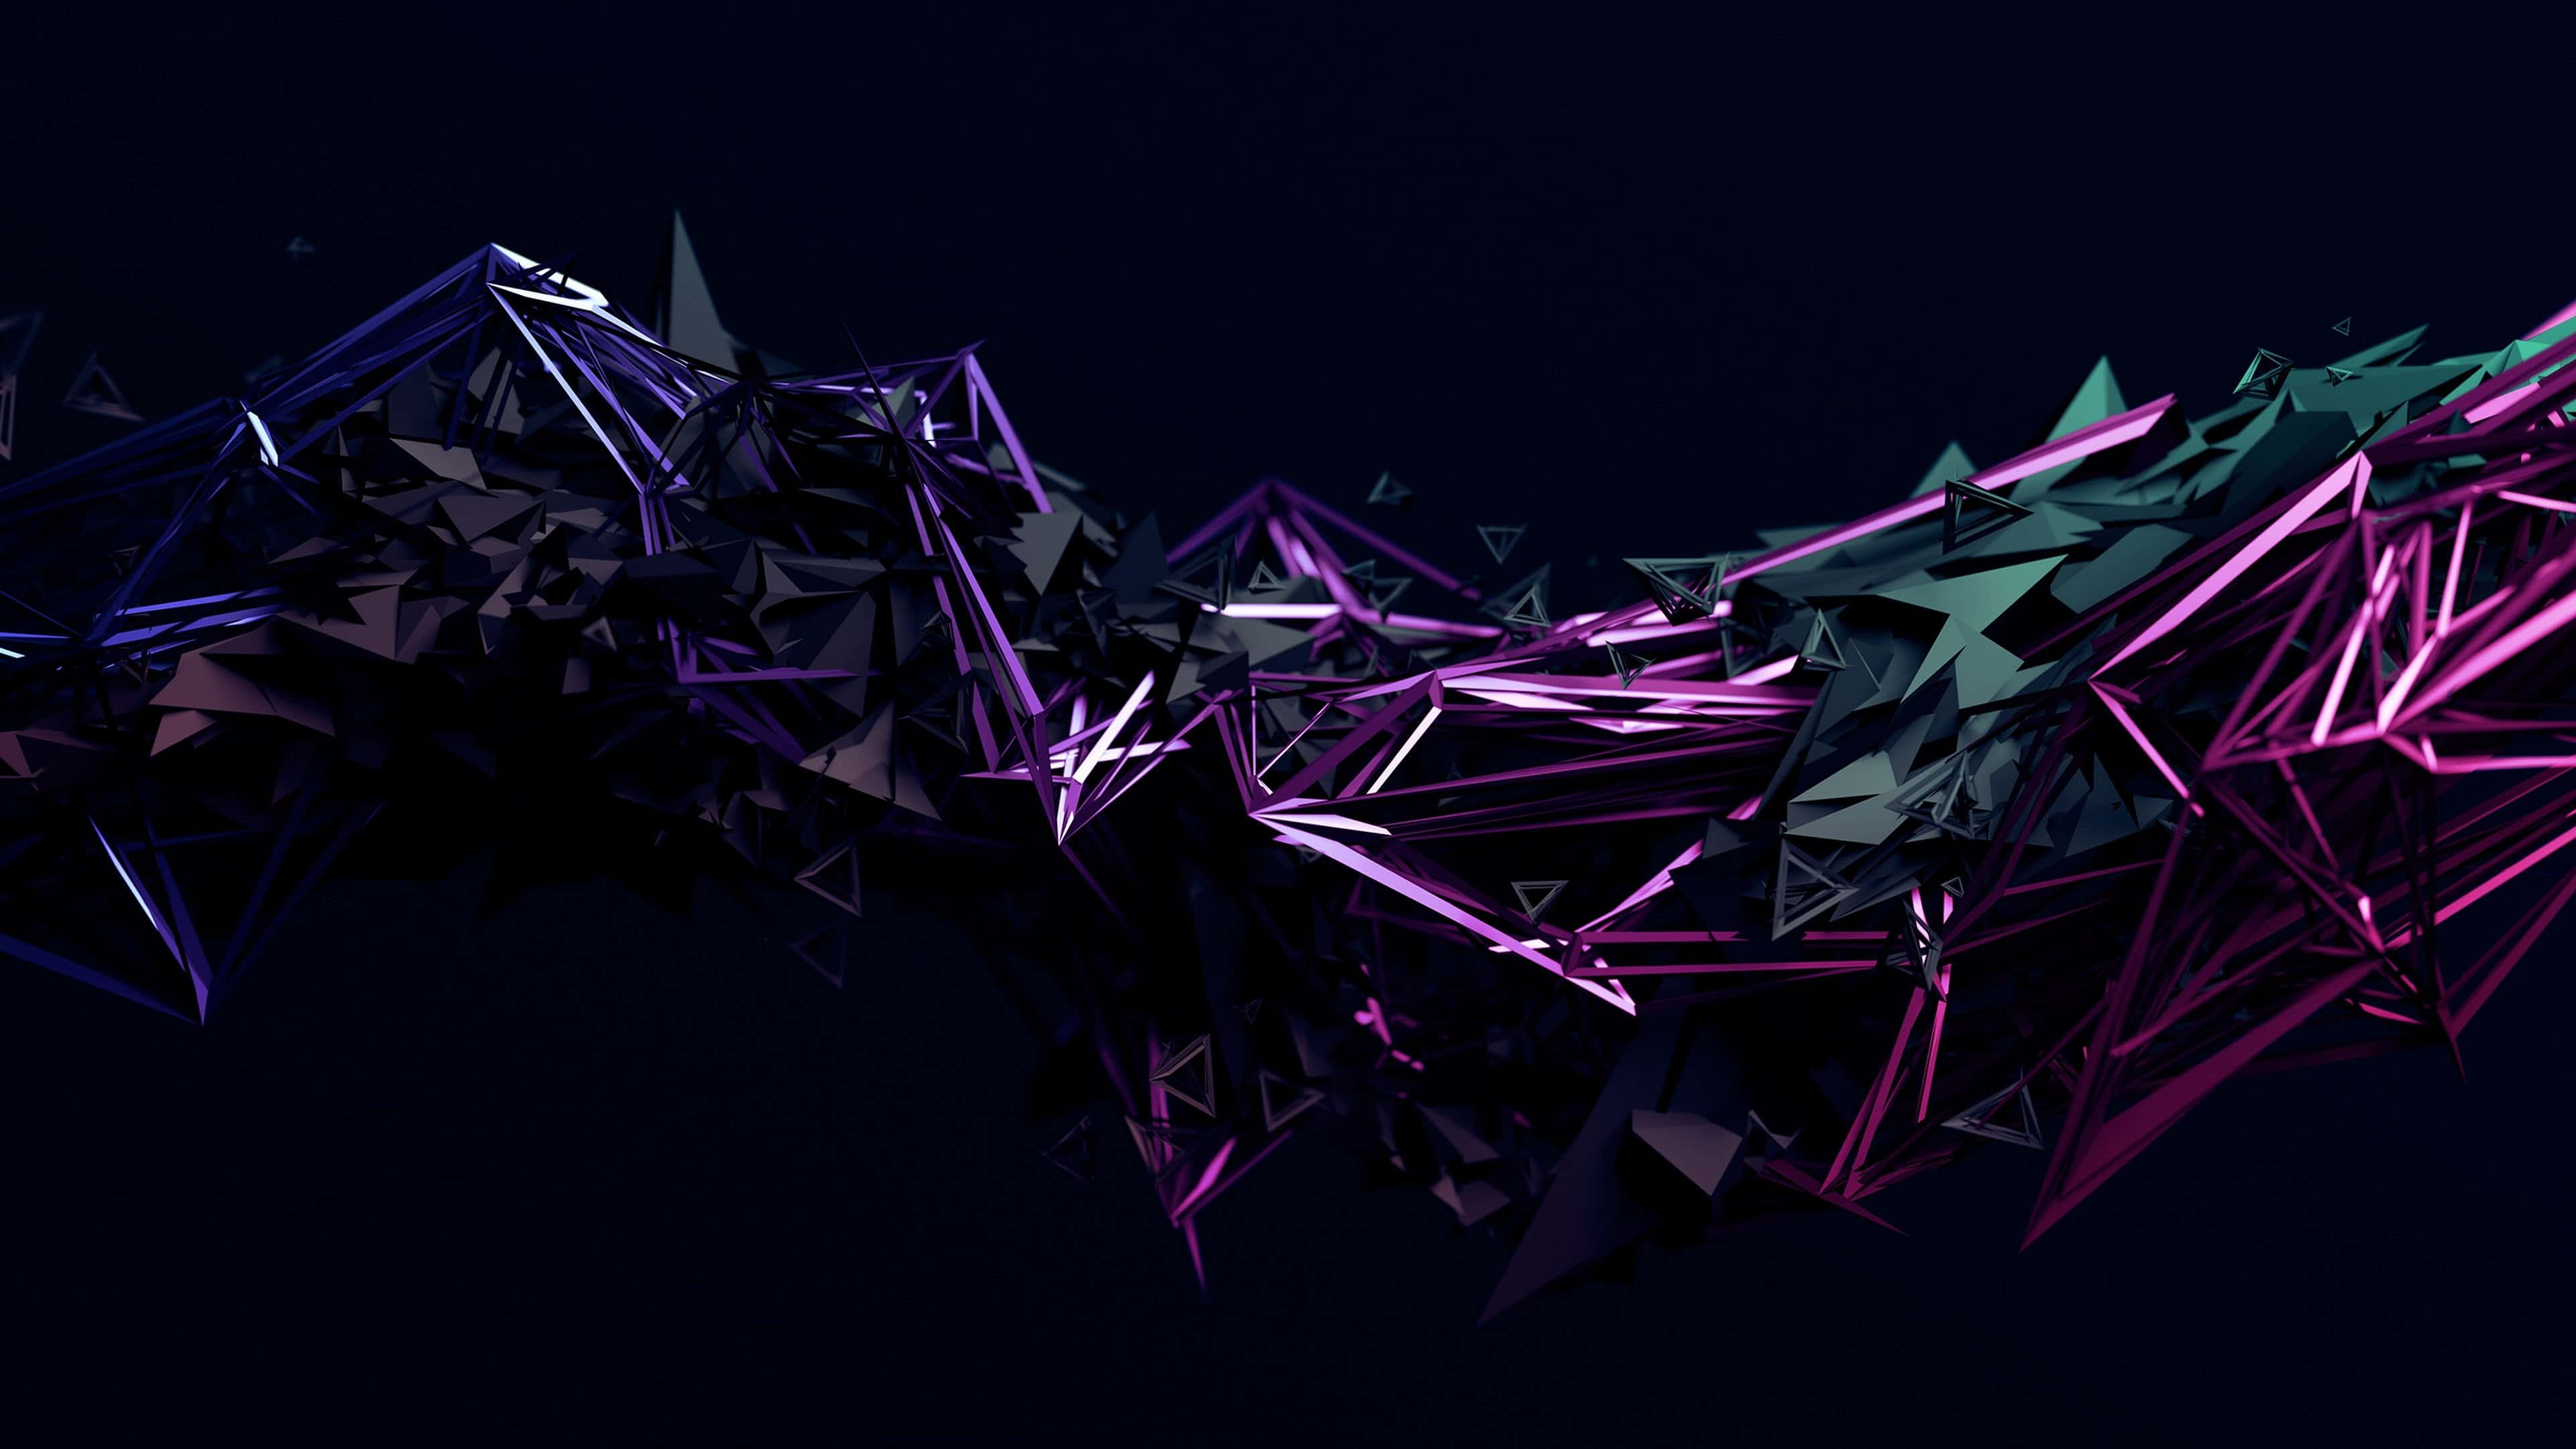
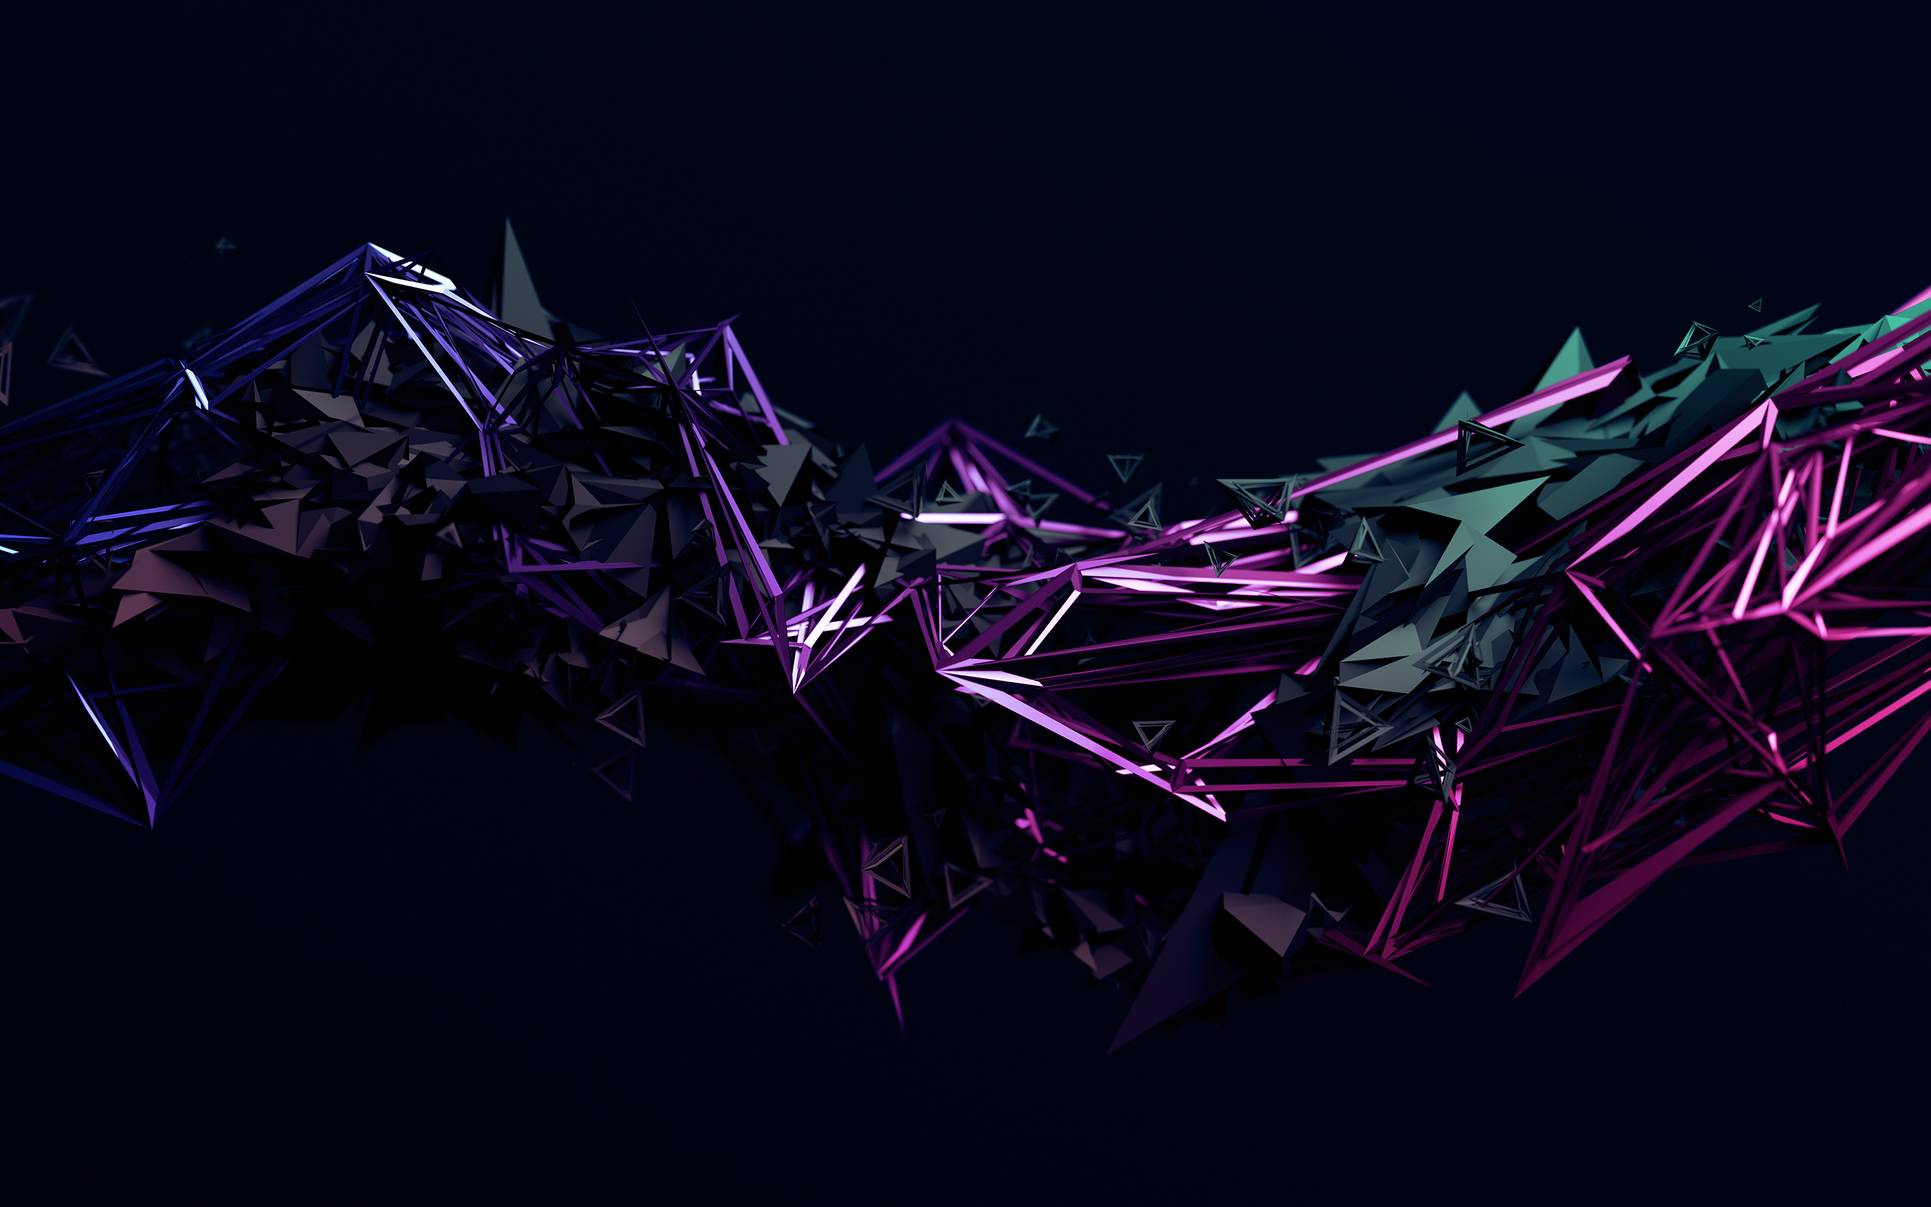
Minor tweaks to footer

Changed region(s): [[0.0, 0.1556, 1.0, 0.8711], [0.0, 0.56, 0.125, 0.7156]]

diff --git a/stylesheet.css b/stylesheet.css
@@ -131,7 +131,7 @@ header + .light-sect {
   text-align: center;
   background-image: url("img/sect-background.jpg");
   background-attachment: fixed;
-  background-position-y: bottom 20%;
+  background-position-y: bottom 24%;
   background-size: cover;
   background-repeat: repeat-x;
   background-blend-mode: darken;
@@ -163,12 +163,12 @@ h3.light-title + div {
 .project-rect img {
   display: inline-block;
   background-color: #c4c4c4;
-  height: 150px;
-  width: 275px;
+  height: 175px;
+  width: auto;
   color: #282a36;
   font-size: 16pt;
   text-align: center;
-  border-radius: 5px;
+  border-radius: 3px;
   margin-bottom: 5px;
 }
 
@@ -190,7 +190,7 @@ h3.light-title + div {
   margin-left: auto;
   margin-right: auto;
   padding: 20px 60px;
-  border-radius: 10px;
+  border-radius: 8px;
 }
 
 .rect h4 {
@@ -201,7 +201,8 @@ h3.light-title + div {
   font-size: 18pt;
   text-align: justify;
   list-style: disc;
-  margin-left: 15px;
+  margin-left: auto;
+  margin-right: auto;
 }
 
 .rect li:hover {
@@ -227,10 +228,13 @@ h3.light-title + div {
 }
 
 .credits {
-  font-weight: 300;
-  flex-basis: 40%;
+  display: flex;
+  justify-content: center;
 }
 
+.credits div {
+  margin-left: 20px;
+}
 .credits a {
   color: #6272a4;
 }
@@ -243,8 +247,12 @@ footer {
   font-family: "Ubuntu Condensed";
   font-style: normal;
   text-align: center;
-  margin-top: 10px;
+  padding-top: 10px;
   background-color: #171820;
   padding-top: 10px;
   padding-bottom: 5px;
+}
+
+footer * {
+  font-family: "Ubuntu Condensed";
 }

diff --git a/index.html b/index.html
@@ -101,9 +101,11 @@
         <img src="img/icons/email.svg" />
         <h4>Email:<br />raphgl@protonmail.com</h4>
       </div>
+    </section>
+    <footer>
+      ©2020 · Rafael Lopes
       <!--Credits-->
       <div class="credits">
-        <b>Credits</b>:<br />
         <div>
           <a target="_blank" href="https://icons8.com/icons/set/github"
             >GitHub icon</a
@@ -122,16 +124,12 @@
             >www.flaticon.com</a
           >
         </div>
-        <div>
-          <a href="https://github.com/dracula/dracula-theme/"
+        <div><a href="https://github.com/dracula/dracula-theme/"
             >Dracula colorscheme</a
           >
           made by <a href="https://zenorocha.com/">Zeno Rocha</a>
         </div>
       </div>
-    </section>
-    <footer>
-      ©2020 · Rafael Lopes
     </footer>
   </body>
 </html>
